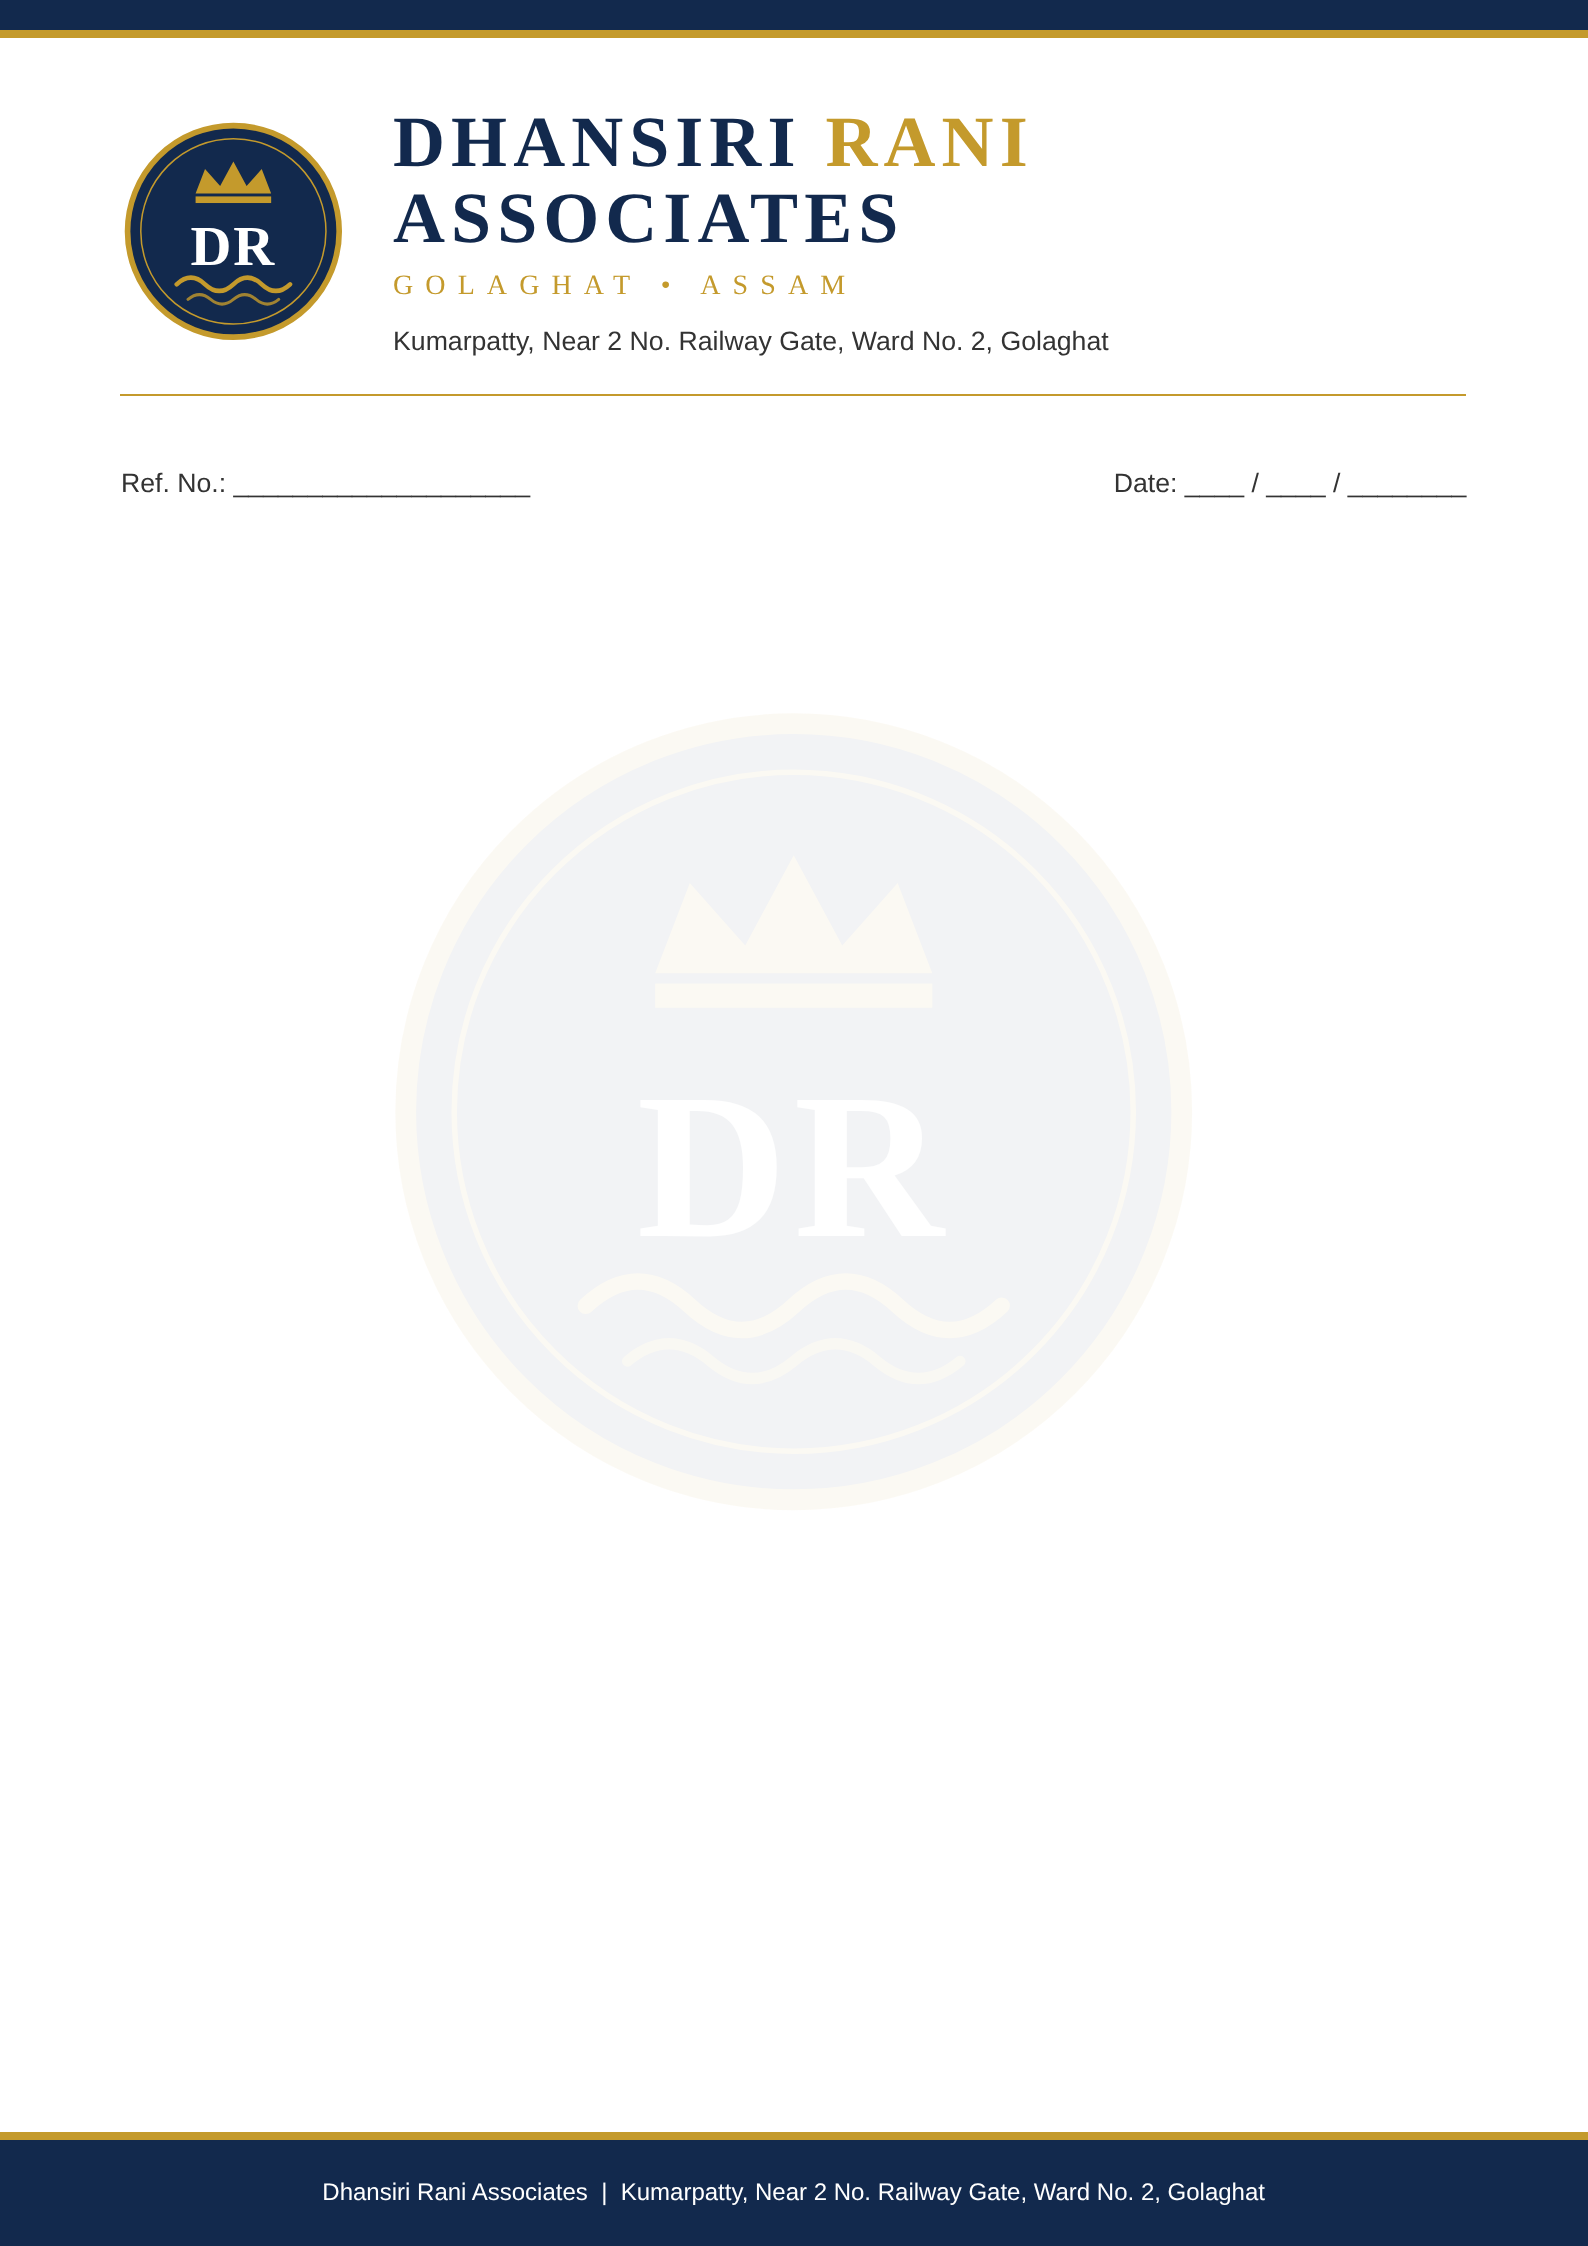
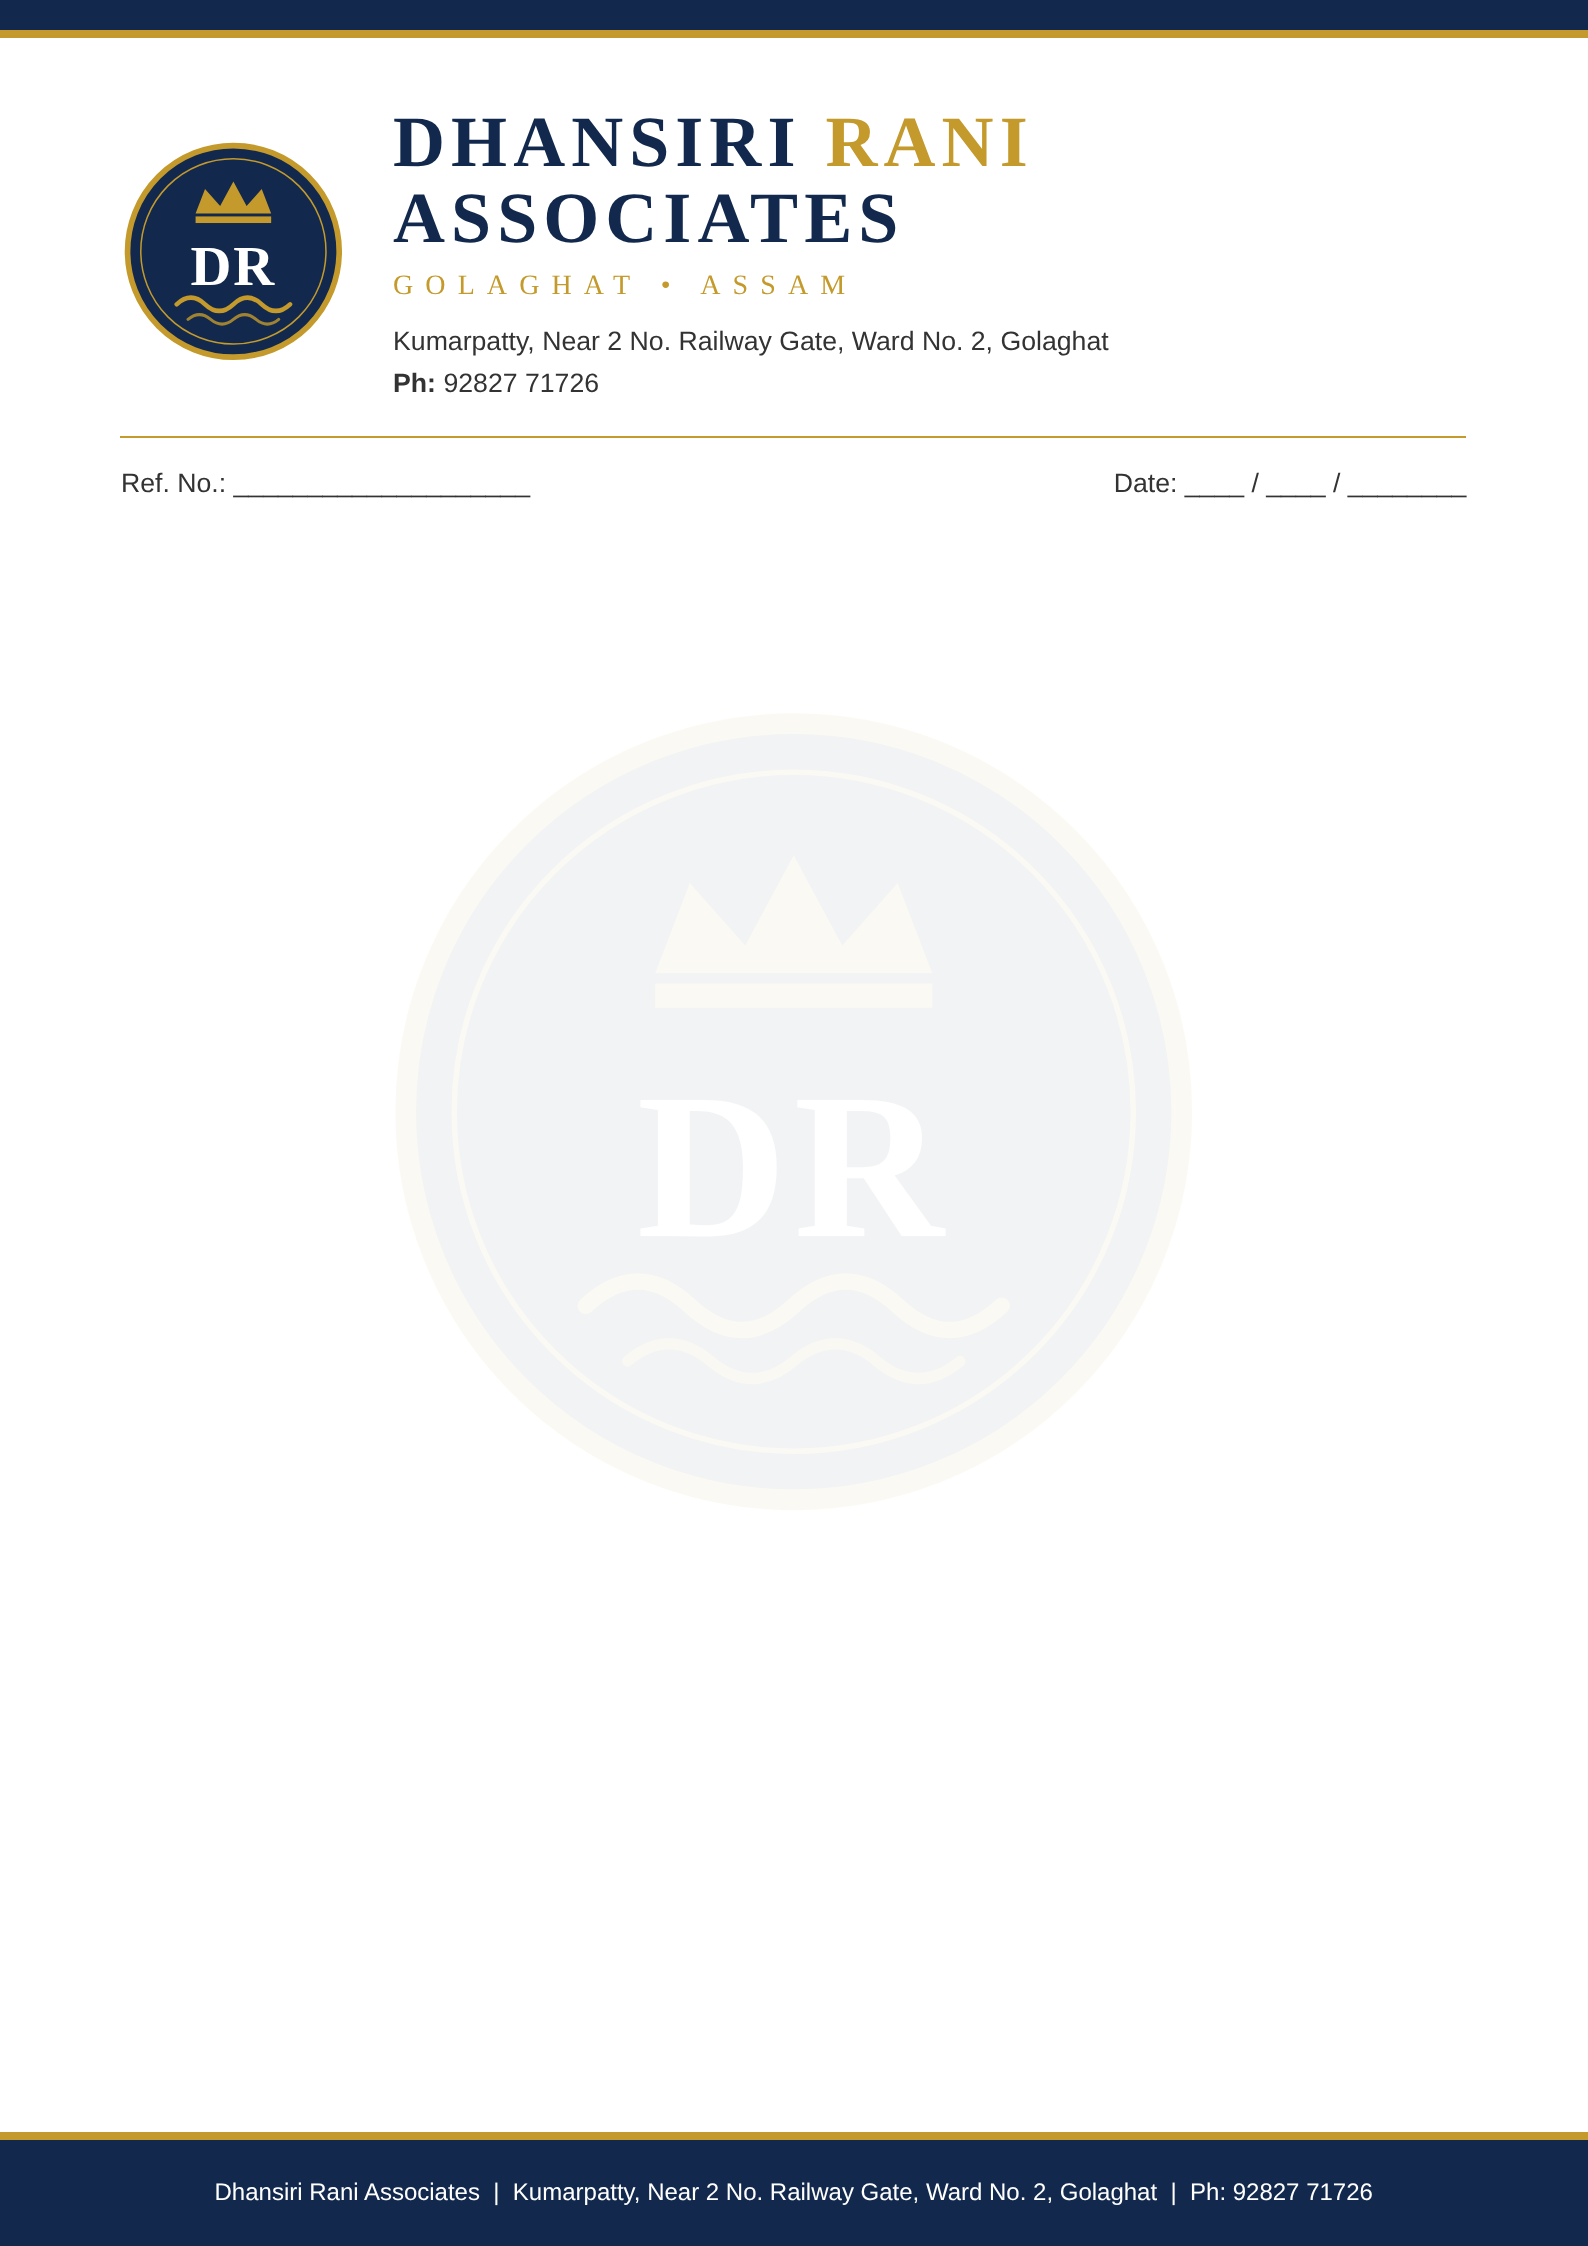
Add phone number to letterpad
Claude-Session: https://claude.ai/code/session_01T4xbx7cGJ6zVcYuce7yhQL

diff --git a/dhansiri/letterpad.html b/dhansiri/letterpad.html
@@ -31,7 +31,7 @@ h1 span{color:#c49a2c}
 
  <div><h1>Dhansiri <span>Rani</span> Associates</h1>
  <div class="tag">Golaghat &bull; Assam</div>
- <div class="addr">Kumarpatty, Near 2 No. Railway Gate, Ward No. 2, Golaghat</div></div></div>
+ <div class="addr">Kumarpatty, Near 2 No. Railway Gate, Ward No. 2, Golaghat</div><div class="addr" style="margin-top:1.5mm"><b>Ph:</b> 92827 71726</div></div></div>
 <div class="wm"><svg xmlns="http://www.w3.org/2000/svg" viewBox="0 0 120 120" width="120" height="120">
   <circle cx="60" cy="60" r="56" fill="#12294d"/>
   <circle cx="60" cy="60" r="56" fill="none" stroke="#c49a2c" stroke-width="3"/>
@@ -47,5 +47,5 @@ h1 span{color:#c49a2c}
 </svg>
 </div>
 <div class="dateline"><span>Ref. No.: ____________________</span><span>Date: ____ / ____ / ________</span></div>
-<div class="foot">Dhansiri Rani Associates &nbsp;|&nbsp; Kumarpatty, Near 2 No. Railway Gate, Ward No. 2, Golaghat</div>
+<div class="foot">Dhansiri Rani Associates &nbsp;|&nbsp; Kumarpatty, Near 2 No. Railway Gate, Ward No. 2, Golaghat &nbsp;|&nbsp; Ph: 92827 71726</div>
 </body></html>
